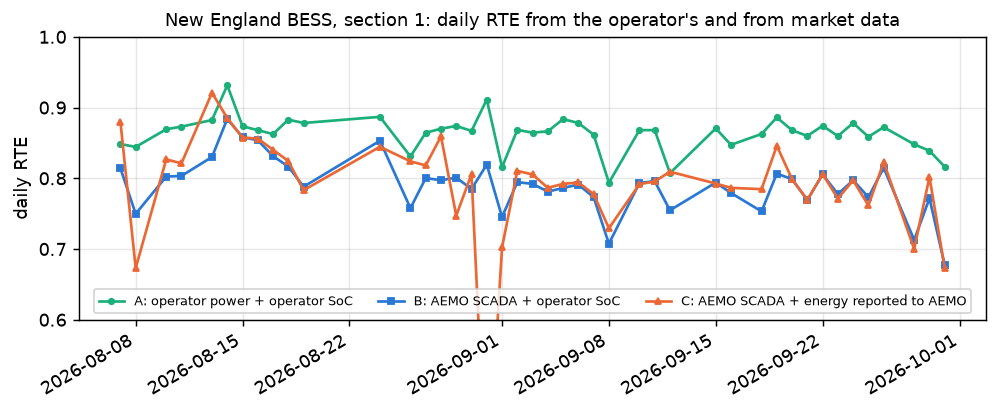
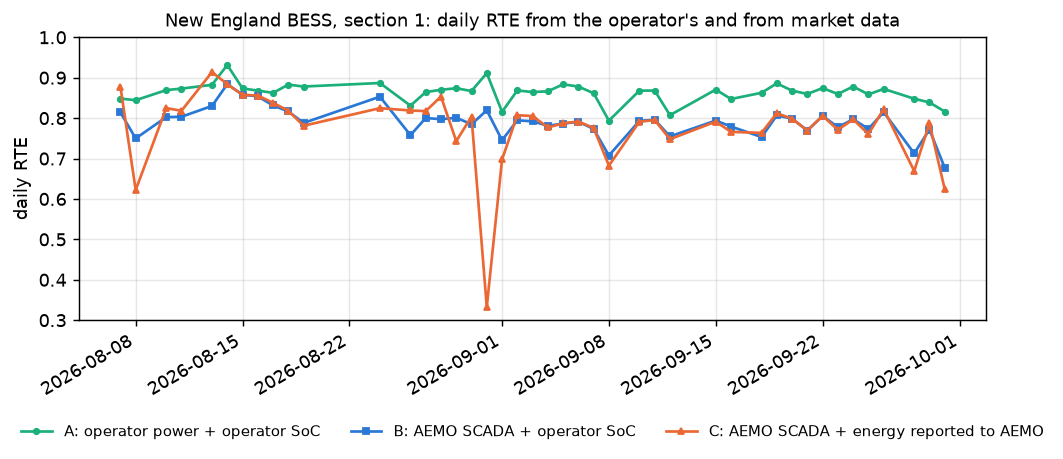
Case studies: corrected results after the review of the three projects

Changed region(s): [[0.0, 0.0291, 0.994, 0.9612], [0.9319, 0.3786, 0.9629, 0.4078], [0.9008, 0.1456, 0.9319, 0.1748]]

diff --git a/case-studies/wind-downtime-availability.html b/case-studies/wind-downtime-availability.html
@@ -3,10 +3,10 @@
 <head>
 <meta charset="utf-8">
 <meta name="viewport" content="width=device-width, initial-scale=1">
-<title>Warranty availability depends on how a stop is booked | Konrad Waleszczyński</title>
-<meta name="description" content="Stops, their causes and the energy they cost, found in the 10-minute SCADA of three open UK wind farms, and what a wrong category does to contractual availability.">
-<meta property="og:title" content="Warranty availability depends on how a stop is booked">
-<meta property="og:description" content="Stops, their causes and the energy they cost, found in the 10-minute SCADA of three open UK wind farms, and what a wrong category does to contractual availability.">
+<title>One mis-booked farm-wide stop can outweigh all detection error | Konrad Waleszczyński</title>
+<meta name="description" content="Stops, their causes and the energy they cost, found in the 10-minute SCADA of three open UK wind farms, and what a wrong category does to contractual availability: a little in most years, a lot when a farm-wide stop is involved.">
+<meta property="og:title" content="One mis-booked farm-wide stop can outweigh all detection error">
+<meta property="og:description" content="Stops, their causes and the energy they cost, found in the 10-minute SCADA of three open UK wind farms, and what a wrong category does to contractual availability: a little in most years, a lot when a farm-wide stop is involved.">
 <meta property="og:image" content="https://kwwaleszczynski-del.github.io/img/case-wind-downtime-availability.png">
 <meta name="color-scheme" content="light dark">
 <style>
@@ -125,13 +125,13 @@ td + td { white-space: nowrap; }
   <p class="crumb"><a href="../#start">&#8592; Konrad Waleszczyński: all projects</a></p>
   <header>
     <p class="kicker"><span class="group g-wind">Wind</span><span class="badge">Case study</span></p>
-    <h1>Warranty availability depends on how a stop is booked</h1>
-    <p class="dek">Stops, their causes and the energy they cost, found in the 10-minute SCADA of three open UK wind farms, and what a wrong category does to contractual availability.</p>
-    <ul class="kpis"><li><b>97.9 % to 93.5 %</b><span>one farm-year&#x27;s warranty availability when grid and curtailment stops are booked as turbine faults</span></li><li><b>EUR 0.23 m</b><span>liquidated damages that would follow at a 97 % guarantee, but are not owed</span></li><li><b>0.5-1.0 pp</b><span>mean error of availability from SCADA signals alone against the operator&#x27;s logs, per turbine-year</span></li></ul>
+    <h1>One mis-booked farm-wide stop can outweigh all detection error</h1>
+    <p class="dek">Stops, their causes and the energy they cost, found in the 10-minute SCADA of three open UK wind farms, and what a wrong category does to contractual availability: a little in most years, a lot when a farm-wide stop is involved.</p>
+    <ul class="kpis"><li><b>97.9 % to 93.5 %</b><span>one farm-year&#x27;s warranty availability when grid and park-controller stops are booked as turbine faults; 4.1 of the 4.4 pp come from one 15-day farm-wide stop</span></li><li><b>-0.3 pp</b><span>the same scenario without that one stop; 0.1-1.6 pp in the other six farm-years</span></li><li><b>0.5-1.0 pp</b><span>mean error of availability from SCADA signals alone against the operator&#x27;s logs, per turbine-year</span></li></ul>
   </header>
   <figure>
-    <img src="../img/case-wind-downtime-availability.png" alt="Change of the time-based warranty availability when stops are booked under the wrong category (test years: Kelmarsh 2020-2021, Penmanshiel 2020)." width="935" height="396">
-    <figcaption>Change of the time-based warranty availability when stops are booked under the wrong category (test years: Kelmarsh 2020-2021, Penmanshiel 2020).</figcaption>
+    <img src="../img/case-wind-downtime-availability.png" alt="Change of the time-based warranty availability when stops are booked under the wrong category (test years: Kelmarsh 2020-2021, Penmanshiel 2020). The Penmanshiel bars are dominated by one farm-wide stop." width="935" height="396">
+    <figcaption>Change of the time-based warranty availability when stops are booked under the wrong category (test years: Kelmarsh 2020-2021, Penmanshiel 2020). The Penmanshiel bars are dominated by one farm-wide stop.</figcaption>
   </figure>
 
   <section aria-labelledby="problem-h">
@@ -146,13 +146,13 @@ td + td { white-space: nowrap; }
 
   <section aria-labelledby="result-h">
     <h2 id="result-h">Result</h2>
-    <ul><li>The everyday rule &quot;no power although the wind is above cut-in&quot; raises 4,833 alarms for 1,412 logged stops at Penmanshiel. A parked rotor, with the blades at the parking angle and the rotor still, finds stops with F1 <b>0.86, 0.91 and 0.80</b> on the three farms without any training. Gradient boosting trained on the two Senvion farms reaches 0.92 and 0.93 there and 0.83 on the Siemens farm.</li><li>Time-based warranty availability from the signals alone is within <b>0.5-1.0 percentage points</b> of the figure from the logs (mean absolute error per turbine-year).</li><li>Booking the cause wrong moves it further. Counting grid trips, curtailment and park-controller stops as turbine faults costs 0.6 pp at Kelmarsh and <b>4.4 pp</b> at Penmanshiel, where the logged 97.9 % for 2020 becomes 93.5 %. That is below a typical 97 % guarantee: about <b>EUR 0.23 million</b> of liquidated damages for one farm-year (81.5 GWh potential, 80 EUR/MWh) that are not owed.</li><li>The signals recognise grid trips, park-controller stops and technical standby well, but they cannot separate scheduled maintenance, planned corrective work and forced outages. These look the same in SCADA, and it is the distinction a warranty depends on.</li><li>A stopped turbine&#x27;s own anemometer is biased: 3.0 % high at Kelmarsh, 2.6 % low at Penmanshiel and 9.2 % low at Hill of Towie. On Hill of Towie it books 14 % less lost energy than the wake-aware reference.</li></ul>
-    <div class="tablewrap"><table><caption>Warranty time-based availability (typical manufacturer preset), change against the logs</caption><thead><tr><th>Booking</th><th>Kelmarsh</th><th>Penmanshiel</th></tr></thead><tbody><tr><td>Every stop counted as a turbine fault</td><td>-1.9 pp</td><td>-5.1 pp</td></tr><tr><td>Grid trips and curtailment / park-controller stops counted as turbine faults</td><td>-0.6 pp</td><td>-4.4 pp</td></tr><tr><td>High-wind, icing and low-temperature stops counted as faults</td><td>-0.7 pp</td><td>-0.4 pp</td></tr><tr><td>Scheduled maintenance counted as forced outage (60 h allowance lost)</td><td>-0.4 pp</td><td>-0.2 pp</td></tr><tr><td>Missing data counted as downtime</td><td>-0.3 pp</td><td>-0.3 pp</td></tr></tbody></table></div><p class="note">Test years: Kelmarsh 2020-2021 (12 turbine-years), Penmanshiel 2020 (14 turbine-years).</p>
+    <ul><li>The everyday rule &quot;no power although the wind is above cut-in&quot; raises 4,833 alarms for 1,412 logged stops at Penmanshiel. A parked rotor, with the blades at the parking angle and the rotor still, finds stops with F1 <b>0.86, 0.91 and 0.80</b> on the three farms without any training (0.68-0.72 when a detected and a logged stop must share half of their joint span). Gradient boosting trained on the two Senvion farms reaches 0.92 and 0.93 there and 0.83 on the Siemens farm.</li><li>Time-based warranty availability from the signals alone is within <b>0.5-1.0 percentage points</b> of the figure from the logs (mean absolute error per turbine-year).</li><li>Booking the cause wrong can move it much further, but only when a farm-wide stop is involved. Counting grid trips, curtailment and park-controller stops as turbine faults costs 0.6 pp at Kelmarsh and <b>4.4 pp</b> at Penmanshiel, where the logged 97.9 % for 2020 becomes 93.5 %, below a typical 97 % guarantee (about EUR 0.23 million of liquidated damages that are not owed, at 81.5 GWh potential and 80 EUR/MWh). <b>4.1 of those 4.4 pp are one event:</b> a 15-day park-controller stop of all 14 turbines. Without it the scenario costs 0.3 pp; Kelmarsh 2018 shows the same pattern with a 10-day overvoltage stop (-3.2 pp against -0.3 pp), and the other six farm-years give 0.1-1.6 pp.</li><li>The signals recognise grid trips, park-controller stops and technical standby well by event count, but they cannot separate scheduled maintenance, planned corrective work and forced outages, and by stop time the rule-based causes are right for only 21 % (Kelmarsh) and 68 % (Penmanshiel). At Penmanshiel classifying the causes makes availability worse than booking every detected stop as a fault: mean error 1.03 pp with rules against 0.26 pp without, and one turbine moves from 96.5 % to 97.3 %, across a 97 % guarantee.</li><li>A stopped turbine&#x27;s own anemometer is biased: 2-5 % high at Kelmarsh in every wind bin and 4-12 % low at Hill of Towie; at Penmanshiel the bias is a low-wind effect (7 % low at 4-6 m/s, about 1 % above 6 m/s). On Hill of Towie it books 14 % less lost energy than the wake-aware reference.</li></ul>
+    <div class="tablewrap"><table><caption>Warranty time-based availability (typical manufacturer preset), change against the logs</caption><thead><tr><th>Booking</th><th>Kelmarsh</th><th>Penmanshiel</th><th>Penmanshiel without its largest farm-wide stop</th></tr></thead><tbody><tr><td>Every stop counted as a turbine fault</td><td>-1.9 pp</td><td>-5.1 pp</td><td>-1.1 pp</td></tr><tr><td>Grid trips and curtailment / park-controller stops counted as turbine faults</td><td>-0.6 pp</td><td>-4.4 pp</td><td>-0.3 pp</td></tr><tr><td>High-wind, icing and low-temperature stops counted as faults</td><td>-0.7 pp</td><td>-0.4 pp</td><td>-0.3 pp</td></tr><tr><td>Scheduled maintenance counted as forced outage (60 h allowance lost)</td><td>-0.4 pp</td><td>-0.2 pp</td><td>-0.2 pp</td></tr><tr><td>Missing data counted as downtime</td><td>-0.3 pp</td><td>-0.3 pp</td><td>-0.2 pp</td></tr></tbody></table></div><p class="note">Test years: Kelmarsh 2020-2021 (12 turbine-years), Penmanshiel 2020 (14 turbine-years). Across all 8 farm-years without their largest farm-wide episode the grid scenario costs 0.1-0.8 pp.</p>
   </section>
 
   <section aria-labelledby="decision-h">
     <h2 id="decision-h">What it means for a decision</h2>
-    <ul><li><b>Reconcile the category mapping, not only the availability percentage.</b> At Penmanshiel the treatment of grid and curtailment stops moved availability by 4.4 pp, several times the error of detecting the stops from signals.</li><li><b>10-minute signals are enough to check the timing, duration and lost energy of stops independently of the manufacturer&#x27;s log.</b> The split between maintenance and faults still needs status codes.</li><li><b>Choose the lost-energy reference on purpose.</b> The stopped turbine&#x27;s own anemometer can be off by several per cent, and the sign depends on the turbine type.</li><li><b>Read how the contract treats data gaps</b> before trusting an availability figure computed from SCADA. Penmanshiel&#x27;s 15-day park-controller stop in 2020 appears in SCADA as missing data, while the operator booked 3.8 GWh of lost production to it.</li></ul>
+    <ul><li><b>Check how the few farm-wide stops are booked before anything else.</b> At Penmanshiel one 15-day park-controller stop moved availability by 4.1 pp, several times the error of detecting stops from signals; without such an event, booking and detection each move the figure by about 0.3-1 pp.</li><li><b>10-minute signals are enough to check the timing, duration and lost energy of stops independently of the manufacturer&#x27;s log.</b> The split between maintenance and faults still needs status codes.</li><li><b>Choose the lost-energy reference on purpose.</b> The stopped turbine&#x27;s own anemometer can be off by several per cent, and the size depends on the farm and on the wind speed.</li><li><b>Read how the contract treats data gaps</b> before trusting an availability figure computed from SCADA. Penmanshiel&#x27;s 15-day park-controller stop in 2020 appears in SCADA as missing data, while the operator booked 3.8 GWh of lost production to it.</li></ul>
   </section>
 
   <section aria-labelledby="limits-h">
@@ -169,7 +169,7 @@ td + td { white-space: nowrap; }
 
   <footer>
     <p>Personal work on public data; the data sources are credited in the project's repository. Every number on
-    this page is taken from the repository's README and result files. Updated 12 Nov 2026.</p>
+    this page is taken from the repository's README and result files. Updated 15 Nov 2026.</p>
   </footer>
 </div>
 </body>

diff --git a/case-studies/pv-budget-bridge.html b/case-studies/pv-budget-bridge.html
@@ -4,9 +4,9 @@
 <meta charset="utf-8">
 <meta name="viewport" content="width=device-width, initial-scale=1">
 <title>Where did the PV energy go? A monthly bridge from P50 budget to actual | Konrad Waleszczyński</title>
-<meta name="description" content="A monthly waterfall that explains the gap between the budget and metered production in kWh, cause by cause, and checks the irradiance sensor before anything else. Every bar is tested against losses of known size.">
+<meta name="description" content="A monthly waterfall that explains the gap between the budget and metered production in kWh, cause by cause, and checks the irradiance sensor before anything else. Every bar is tested by injecting losses of known size.">
 <meta property="og:title" content="Where did the PV energy go? A monthly bridge from P50 budget to actual">
-<meta property="og:description" content="A monthly waterfall that explains the gap between the budget and metered production in kWh, cause by cause, and checks the irradiance sensor before anything else. Every bar is tested against losses of known size.">
+<meta property="og:description" content="A monthly waterfall that explains the gap between the budget and metered production in kWh, cause by cause, and checks the irradiance sensor before anything else. Every bar is tested by injecting losses of known size.">
 <meta property="og:image" content="https://kwwaleszczynski-del.github.io/assets/pv-budget-bridge-card.png">
 <meta name="color-scheme" content="light dark">
 <style>
@@ -126,12 +126,12 @@ td + td { white-space: nowrap; }
   <header>
     <p class="kicker"><span class="group g-pv">Solar PV</span><span class="badge">Case study</span></p>
     <h1>Where did the PV energy go? A monthly bridge from P50 budget to actual</h1>
-    <p class="dek">A monthly waterfall that explains the gap between the budget and metered production in kWh, cause by cause, and checks the irradiance sensor before anything else. Every bar is tested against losses of known size.</p>
-    <ul class="kpis"><li><b>0.5 %</b><span>error on availability and curtailment losses against a known truth, 48 months</span></li><li><b>4 of 4</b><span>logger clock shifts found; unchecked, they shift the bars of those months by 3.7-5.5 % of budget</span></li><li><b>9.5-16.4 %</b><span>how far the real rooftops&#x27; shared pyranometer reads above ERA5</span></li></ul>
+    <p class="dek">A monthly waterfall that explains the gap between the budget and metered production in kWh, cause by cause, and checks the irradiance sensor before anything else. Every bar is tested by injecting losses of known size.</p>
+    <ul class="kpis"><li><b>within 1 %</b><span>error on a 3-day inverter outage injected into three real rooftops and a synthetic plant; 3-7 % for a curtailment that binds</span></li><li><b>4 of 4</b><span>logger clock shifts found; unchecked, they shift the bars of those months by 3.7-5.5 % of budget</span></li><li><b>9.5-16.4 %</b><span>how far the real rooftops&#x27; shared pyranometer reads above ERA5</span></li></ul>
   </header>
   <figure>
-    <img src="../assets/pv-budget-bridge-card.png" alt="The monthly waterfall on the project&#x27;s live page (synthetic plant, December 2024). The bars add up to the difference between budget and actual exactly." width="1160" height="605">
-    <figcaption>The monthly waterfall on the project&#x27;s live page (synthetic plant, December 2024). The bars add up to the difference between budget and actual exactly.</figcaption>
+    <img src="../assets/pv-budget-bridge-card.png" alt="The monthly waterfall on the project&#x27;s live page (synthetic plant, December 2024). The bars add up to the difference between budget and actual by construction." width="1160" height="605">
+    <figcaption>The monthly waterfall on the project&#x27;s live page (synthetic plant, December 2024). The bars add up to the difference between budget and actual by construction.</figcaption>
   </figure>
 
   <section aria-labelledby="problem-h">
@@ -141,13 +141,13 @@ td + td { white-space: nowrap; }
 
   <section aria-labelledby="method-h">
     <h2 id="method-h">Data and method</h2>
-    <ul><li><b>Budget:</b> a pvlib model on the PVGIS typical meteorological year, written in a PVsyst-like hourly layout. A monthly P50 table or a real export can be read instead.</li><li><b>Data:</b> three NREL PVDAQ rooftops in Las Vegas (2016-2018, 15-minute data, one shared pyranometer) and a synthetic 1.32 MWp plant in central Poland on ERA5 weather 2021-2024, whose true losses are known.</li><li><b>Bridge:</b> weather and age first (irradiance, temperature, degradation), then soiling, snow, clipping, availability, curtailment and data gaps, measured in kWh on the weather that actually occurred, and an unexplained rest. The bars add up exactly every month; a Shapley allocation is computed alongside.</li><li><b>Sensor checks before anything else:</b> clock shifts, orientation and level, shading, and drift against three references.</li><li><b>Verification:</b> faults of known size are injected one at a time into the real and the synthetic data and compared with what the bridge recovers.</li></ul>
+    <ul><li><b>Budget:</b> a pvlib model on the PVGIS typical meteorological year, written in a PVsyst-like hourly layout. A monthly P50 table or a real export can be read instead.</li><li><b>Data:</b> three NREL PVDAQ rooftops in Las Vegas (2016-2018, 15-minute data, one shared pyranometer) and a synthetic 1.32 MWp plant in central Poland on ERA5 weather 2021-2024, whose true losses are known.</li><li><b>Bridge:</b> weather and age first (irradiance, temperature, degradation), then soiling, snow, clipping, availability, curtailment and data gaps, measured in kWh on the weather that actually occurred, and an unexplained rest. The bars add up every month by construction, in a stated order; a Shapley allocation is computed alongside.</li><li><b>Sensor checks before anything else:</b> clock shifts, orientation and level, shading, and drift against three references.</li><li><b>Verification:</b> faults of known size are injected one at a time into the real and the synthetic data and compared with what the bridge recovers.</li></ul>
   </section>
 
   <section aria-labelledby="result-h">
     <h2 id="result-h">Result</h2>
-    <ul><li>On the synthetic plant (48 months) the availability and curtailment losses come back within <b>0.5 %</b> of the truth; data gaps, soiling and snow within 7-10 %.</li><li>A 3-day outage of one inverter, injected into the real rooftops, is recovered within <b>1 %</b> (-0.0 to +0.9 %).</li><li>Four of four 1-hour logger clock shifts are found. Without the check they shift the bars of the affected months by 3.7-5.5 % of the budget in sum, with it by 0-0.2 %. A pyranometer drifting to -3 % is flagged in all four runs, but late: 53-288 days after the drift started.</li><li>On the real rooftops the shared sensor reads 9.5-16.4 % above ERA5. Left uncorrected, the irradiance bar would read +10-16 % and the unexplained bar -15 to -25 %.</li><li>Three long outages turn up that nobody logged (availability 91.8-95.6 % in those years). After all known causes, <b>-6 to -10 %</b> of the budget stays unexplained: these 2010-2011 rooftops run at a PR of 0.63-0.67 against the 0.76 of a generic budget model.</li></ul>
-    <div class="tablewrap"><table><caption>Synthetic plant, 48 months: every loss against its truth</caption><thead><tr><th>Loss</th><th>Truth MWh</th><th>Estimate MWh</th><th>Total error</th></tr></thead><tbody><tr><td>Availability</td><td>46.7</td><td>46.5</td><td>-0.5 %</td></tr><tr><td>Curtailment (set-points)</td><td>78.3</td><td>77.9</td><td>-0.5 %</td></tr><tr><td>Data gaps</td><td>14.4</td><td>13.4</td><td>-7.2 %</td></tr><tr><td>Soiling (rain-washed)</td><td>52.0</td><td>47.9</td><td>-7.9 %</td></tr><tr><td>Snow</td><td>112.1</td><td>101.1</td><td>-9.9 %</td></tr><tr><td>Clipping</td><td>5.4</td><td>7.5</td><td>+40 %</td></tr></tbody></table></div><p class="note">Monthly production is 20-190 MWh, so the mean monthly errors are 0.01-0.24 % of the month&#x27;s energy. The clipping error is the model&#x27;s: the synthetic plant has an incidence-angle loss that the configured model does not.</p>
+    <ul><li>A 3-day outage of one inverter, injected into the real rooftops and the synthetic plant, is recovered within <b>1 %</b> (-0.5 to +0.9 %). A curtailment to 50 % of the AC rating, which binds on every plant, comes back within <b>3-7 %</b> (-2.9 to +7.3 %); a 90 % limit hardly binds on the rooftops and tests little.</li><li>On the synthetic plant (48 months) availability and curtailment come back within 0.5 % and 1.0 % of the truth, data gaps, soiling and snow within 7-10 %. This is a best case: the truth follows the estimator&#x27;s own bookkeeping and the plant shares the model&#x27;s structure.</li><li>Four of four 1-hour logger clock shifts are found. Without the check they shift the bars of the affected months by 3.7-5.5 % of the budget in sum, with it by 0-0.2 %. A pyranometer drifting to -3 % is flagged in all four runs, but late: 53-288 days after the drift started.</li><li>On the real rooftops the shared sensor reads 9.5-16.4 % above ERA5. Left uncorrected, the irradiance bar would read +10-16 % and the unexplained bar -15 to -25 %.</li><li>Three long outages turn up that nobody logged (availability 91.8-95.6 % in those years). After all known causes, <b>-6 to -10 %</b> of the budget stays unexplained: these 2010-2011 rooftops run at a PR of 0.65-0.68 (intervals with complete data) against the 0.76 of a generic budget model.</li></ul>
+    <div class="tablewrap"><table><caption>Synthetic plant, 48 months: every loss against its truth (a best case, see the note)</caption><thead><tr><th>Loss</th><th>Truth MWh</th><th>Estimate MWh</th><th>Total error</th></tr></thead><tbody><tr><td>Availability</td><td>46.1</td><td>45.8</td><td>-0.5 %</td></tr><tr><td>Curtailment (set-points)</td><td>78.9</td><td>78.1</td><td>-1.0 %</td></tr><tr><td>Data gaps</td><td>14.4</td><td>13.4</td><td>-7.2 %</td></tr><tr><td>Soiling (rain-washed)</td><td>52.0</td><td>47.9</td><td>-7.9 %</td></tr><tr><td>Snow</td><td>112.1</td><td>101.1</td><td>-9.9 %</td></tr><tr><td>Clipping</td><td>5.4</td><td>7.5</td><td>+40 %</td></tr></tbody></table></div><p class="note">The truth follows the estimator&#x27;s own conventions and the synthetic plant shares the model&#x27;s structure, so this is a best case; the injection tests on the real rooftops are the model-independent check. Monthly production is 19.5-208.5 MWh, so the mean monthly errors are 0.01-0.24 % of the month&#x27;s energy. The clipping error is the model&#x27;s: the synthetic plant has an incidence-angle loss that the configured model does not.</p>
   </section>
 
   <section aria-labelledby="decision-h">
@@ -169,7 +169,7 @@ td + td { white-space: nowrap; }
 
   <footer>
     <p>Personal work on public data; the data sources are credited in the project's repository. Every number on
-    this page is taken from the repository's README and result files. Updated 12 Nov 2026.</p>
+    this page is taken from the repository's README and result files. Updated 15 Nov 2026.</p>
   </footer>
 </div>
 </body>

diff --git a/case-studies/bess-ops-warranty.html b/case-studies/bess-ops-warranty.html
@@ -127,7 +127,7 @@ td + td { white-space: nowrap; }
     <p class="kicker"><span class="group g-storage">Storage &amp; markets</span><span class="badge">Case study</span></p>
     <h1>Is the battery doing what its warranty and LTSA promise?</h1>
     <p class="dek">Monthly checks of round-trip efficiency, availability, cycling and capacity for an operating grid battery, verified on a battery with a known truth and run on every grid battery in Australia&#x27;s NEM.</p>
-    <ul class="kpis"><li><b>0.92 vs 0.82</b><span>median conversion efficiency against round-trip efficiency at the meter, 55 NEM batteries</span></li><li><b>7.3 pp</b><span>daily RTE gap between the operator&#x27;s own meter and the market SCADA point at one battery</span></li><li><b>95.8 % vs 78.1 %</b><span>median technical against offered availability, 38 batteries in service</span></li></ul>
+    <ul class="kpis"><li><b>0.82 at the meter</b><span>median round-trip efficiency of 55 NEM batteries, about 9 pp below the marginal conversion efficiency (0.92) estimated for 34 of them</span></li><li><b>7-8 pp</b><span>daily RTE gap between the operator&#x27;s own meter and the market SCADA point at one battery</span></li><li><b>95.8 %</b><span>median declared physical availability, 38 batteries in service; an upper bound, declared with 24 hours&#x27; notice</span></li></ul>
   </header>
   <figure>
     <img src="../img/case-bess-ops-warranty.png" alt="New England BESS, section 1: daily RTE from the operator&#x27;s own data (A) and from market data (B, C). The gap between A and B is the metering point." width="1063" height="459">
@@ -146,13 +146,13 @@ td + td { white-space: nowrap; }
 
   <section aria-labelledby="result-h">
     <h2 id="result-h">Result</h2>
-    <ul><li>On the synthetic battery the RTE without auxiliaries is recovered exactly (0.91298), availability exactly including the DST days, and every injected warranty violation is found and nothing else. The SoC correction makes daily RTE usable: uncorrected, daily values spread over 2.8 pp; corrected, 90 % of days are within 0.25 pp of the truth.</li><li>Auxiliaries decide the RTE guarantee. Including them, the same battery reaches 0.859-0.865 a year, but its winter months fall to 0.831-0.841 because of heating, below an illustrative 85 % monthly guarantee.</li><li>With class 0.2S metering the expanded uncertainty of a capacity test is 0.7-1.4 MWh, more than the first two tests&#x27; margin over the guaranteed curve (0.6 and 1.0 MWh). Their verdict is inconclusive, not pass.</li><li>Across 55 NEM batteries (8.9 GW / 20.3 GWh) the RTE at the SCADA point has a median of <b>0.82</b> (interquartile range 0.78-0.85) and grows with duration, while the conversion efficiency is about <b>0.92</b> for all of them: the difference is standby losses and auxiliaries seen at the connection point.</li><li>At New England BESS the daily RTE is 0.868 from the operator&#x27;s own meter and state of charge, and 0.794 from AEMO SCADA with the same state of charge. The metering point accounts for <b>7.3 pp</b>, the source of the stored energy for 3.1 pp (mean absolute daily differences).</li><li>Declared physical availability (PASA, counted like an LTSA capacity formula) has a median of <b>95.8 %</b> for the 38 batteries in service for at least six months; 15 of them reach an illustrative 97 % guarantee. Offered availability is 78.1 %: what is held back is commercial, for example capacity reserved under other contracts, not technical.</li></ul>
-    <div class="tablewrap"><table><caption>NEM batteries, October 2025 to September 2026: round-trip efficiency by duration</caption><thead><tr><th>Duration</th><th>Batteries</th><th>RTE at the SCADA point, median (range)</th><th>Conversion RTE</th></tr></thead><tbody><tr><td>About 1 h</td><td>7</td><td>0.75 (0.47-0.81)</td><td>0.919</td></tr><tr><td>About 2 h</td><td>41</td><td>0.83 (0.74-0.86)</td><td>0.924</td></tr><tr><td>3 h or more</td><td>5</td><td>0.88 (0.87-0.90)</td><td>0.925</td></tr></tbody></table></div><p class="note">Conversion RTE from the hourly regression of reported stored energy in the companion project bess-soc-soh-degradation, which separates a standby drain.</p>
+    <ul><li>On the synthetic battery the RTE without auxiliaries is recovered exactly (0.91298), availability exactly including the DST days, and every injected warranty violation is found and nothing else. The SoC correction makes daily RTE usable: uncorrected, daily values spread over 2.8 pp; corrected, 90 % of days are within 0.25 pp of the truth.</li><li>Auxiliaries decide the RTE guarantee. Including them, the same battery reaches 0.859-0.865 a year, but its winter months fall to 0.831-0.841 because of heating, below an illustrative 85 % monthly guarantee.</li><li>With class 0.2S metering the expanded uncertainty of a capacity test is 0.7-1.4 MWh, more than the first two tests&#x27; margin over the guaranteed curve (0.6 and 1.0 MWh). Their verdict is inconclusive, not pass.</li><li>Across 55 NEM batteries (8.9 GW / 20.3 GWh) the RTE at the SCADA point has a median of <b>0.82</b> (interquartile range 0.78-0.85) and grows with duration. For the 34 batteries with a regression estimate the marginal conversion efficiency is about <b>0.92</b>, 9 pp higher for the median battery (4 to 18 pp): the difference is standby losses and auxiliaries seen at the connection point.</li><li>At New England BESS the daily RTE is 0.868 from the operator&#x27;s own meter and state of charge, and 0.794 from AEMO SCADA with the same state of charge. The metering point accounts for <b>7-8 pp</b> in both sections of the plant. The source of the stored energy hardly moves the median (0.794 against 0.795 in section 1), but the daily values from the reported energy are about twice as noisy.</li><li>Declared physical availability (PASA, counted like an LTSA capacity formula) has a median of <b>95.8 %</b> for the 38 batteries in service for at least six months; 15 of them reach an illustrative 97 % guarantee. It is capability within 24 hours&#x27; notice, so an upper bound on what an LTSA would measure. Offered availability is 78.1 %, but 94.1 % once intervals with an almost empty battery are left out: for the median battery only 3.2 % of the registered power is declared and not offered, and five batteries hold back a third or more.</li></ul>
+    <div class="tablewrap"><table><caption>NEM batteries, October 2025 to September 2026: round-trip efficiency by duration</caption><thead><tr><th>Duration</th><th>Batteries</th><th>RTE at the SCADA point, median (range)</th><th>Marginal conversion RTE (batteries with an estimate)</th></tr></thead><tbody><tr><td>About 1 h</td><td>7</td><td>0.75 (0.47-0.81)</td><td>0.919 (2)</td></tr><tr><td>About 2 h</td><td>41</td><td>0.83 (0.74-0.86)</td><td>0.924 (28)</td></tr><tr><td>3 h or more</td><td>5</td><td>0.88 (0.87-0.90)</td><td>0.925 (4)</td></tr></tbody></table></div><p class="note">Marginal RTE from the hourly regression of reported stored energy in the companion project bess-soc-soh-degradation, which separates a standby drain; it is an estimate, available for 34 of the 55 batteries, not a measurement at the PCS terminals.</p>
   </section>
 
   <section aria-labelledby="decision-h">
     <h2 id="decision-h">What it means for a decision</h2>
-    <ul><li><b>Before comparing an RTE with a guarantee, check where it is measured and whether the auxiliaries are inside.</b> An RTE from revenue-meter or market data includes auxiliaries and standby; it cannot be compared with one guaranteed at the PCS terminals.</li><li><b>Monthly RTE clauses are tested hardest in winter.</b> Heating can take an otherwise compliant battery below the guarantee.</li><li><b>Read capacity tests with their uncertainty.</b> Early tests close to the guaranteed curve can be inconclusive rather than a pass, which matters when a claim or an augmentation is planned from them.</li><li><b>Low offered availability in market data is a trading or contract choice, not a fault.</b> The closest public proxy of what an LTSA measures is the declared physical availability, and it is still the operator&#x27;s own statement.</li></ul>
+    <ul><li><b>Before comparing an RTE with a guarantee, check where it is measured and whether the auxiliaries are inside.</b> An RTE from revenue-meter or market data includes auxiliaries and standby; it cannot be compared with one guaranteed at the PCS terminals.</li><li><b>Monthly RTE clauses are tested hardest in winter.</b> Heating can take an otherwise compliant battery below the guarantee.</li><li><b>Read capacity tests with their uncertainty.</b> Early tests close to the guaranteed curve can be inconclusive rather than a pass, which matters when a claim or an augmentation is planned from them.</li><li><b>Low offered availability in market data is mostly the state of charge, not a fault and for most batteries not a choice either.</b> Only a handful hold capacity back. The closest public proxy of what an LTSA measures is the declared physical availability, and it is the operator&#x27;s own statement with 24 hours&#x27; notice.</li></ul>
   </section>
 
   <section aria-labelledby="limits-h">
@@ -169,7 +169,7 @@ td + td { white-space: nowrap; }
 
   <footer>
     <p>Personal work on public data; the data sources are credited in the project's repository. Every number on
-    this page is taken from the repository's README and result files. Updated 12 Nov 2026.</p>
+    this page is taken from the repository's README and result files. Updated 15 Nov 2026.</p>
   </footer>
 </div>
 </body>

diff --git a/index.html b/index.html
@@ -863,7 +863,7 @@ td + td { white-space: nowrap; }
       <dt>Stack</dt><dd>Python · pandas · SciPy / HiGHS MILP · pvlib · PyWake · PyTorch · NumPyro / JAX · Plotly · Grafana · InfluxDB 2 / Flux · GitHub Actions · pytest</dd>
       <dt>Open data</dt><dd>PSE (Polish TSO) open API · AEMO NEM · NREL PVDAQ · Kelmarsh wind farm SCADA (Cubico, CC BY 4.0) · PVGIS · Open-Meteo / ERA5 · Met Office sunshine records · Zenodo LFP cell ageing data · IMGW-PIB synoptic stations · CERRA (Copernicus) · IEEE RTS-79 · CARE to Compare benchmark (CC BY-SA 4.0) · FlyWire connectome v783 (CC BY 4.0)</dd>
     </dl>
-    <p>All projects are personal work on public datasets, credited in each repository. Updated 12 Nov 2026.</p>
+    <p>All projects are personal work on public datasets, credited in each repository. Updated 15 Nov 2026.</p>
   </footer>
 </div>
 <script>
